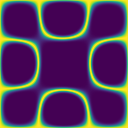
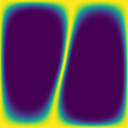
feat: 更新主函数以支持命令行参数并修正厚度值

diff --git a/test.py b/test.py
@@ -1,6 +1,7 @@
 import warp as wp
 import numpy as np
 import matplotlib.pyplot as plt
+import argparse
 from parameter import PlateParams
 from direct_solver import DifferentiableDirectSolver
 from device_manager import WARP_DEVICE, init_devices
@@ -9,7 +10,7 @@ init_devices()
 
 def getDepth(N: int,L:float):
     
-    h_np = np.ones(N * N, dtype=np.float32) * 0.001
+    h_np = np.ones(N * N, dtype=np.float32) * 0.0008  # 0.8mm
     for i in range(N):
         for j in range(N):
             idx = i * N + j
@@ -23,24 +24,32 @@ def getDepth(N: int,L:float):
     return h_np
 
 def main():
-    N = 128       
-    L = 0.3         # 30cm
+    parser = argparse.ArgumentParser(description='Chladni Pattern Simulator')
+    parser.add_argument('--freq', type=float, default=750.0, help='Frequency in Hz (default: 750)')
+    parser.add_argument('--N', type=int, default=128, help='Grid resolution (default: 128)')
+    parser.add_argument('--L', type=float, default=0.2, help='Plate size in meters (default: 0.2)')
+    parser.add_argument('--thickness', type=float, default=0.0008, help='Plate thickness in meters (default: 0.0008)')
+    parser.add_argument('--E', type=float, default=70e9, help="Young's modulus in Pa (default: 70e9)")
+    parser.add_argument('--rho', type=float, default=2700.0, help='Density in kg/m³ (default: 2700)')
+    parser.add_argument('--nu', type=float, default=0.33, help="Poisson's ratio (default: 0.33)")
+    parser.add_argument('--eta', type=float, default=1e-4, help='Damping coefficient (default: 1e-4)')
+    args = parser.parse_args()
+    
+    N = args.N
+    L = args.L
     
     p = PlateParams()
-    p.E = 70.0e9     
-    p.nu = 0.33      
-    p.rho = 2700.0   
-    p.dx = L / N     
-    p.dy = L / N     
-    p.eta = 1e-4    # 阻尼
+    p.E = args.E
+    p.nu = args.nu
+    p.rho = args.rho
+    p.dx = L / N
+    p.dy = L / N
+    p.eta = args.eta
 
     chladni_solver = DifferentiableDirectSolver(p, N, N)
 
-    start_f = 500.0   
-    end_f = 2000.0
-    steps = 200      
-    freqs = np.linspace(start_f, end_f, steps)
-
+    target_f = args.freq
+    freqs = [target_f]
     
     h_np = getDepth(N,L)
     h_wp = wp.from_numpy(h_np, device=WARP_DEVICE)
